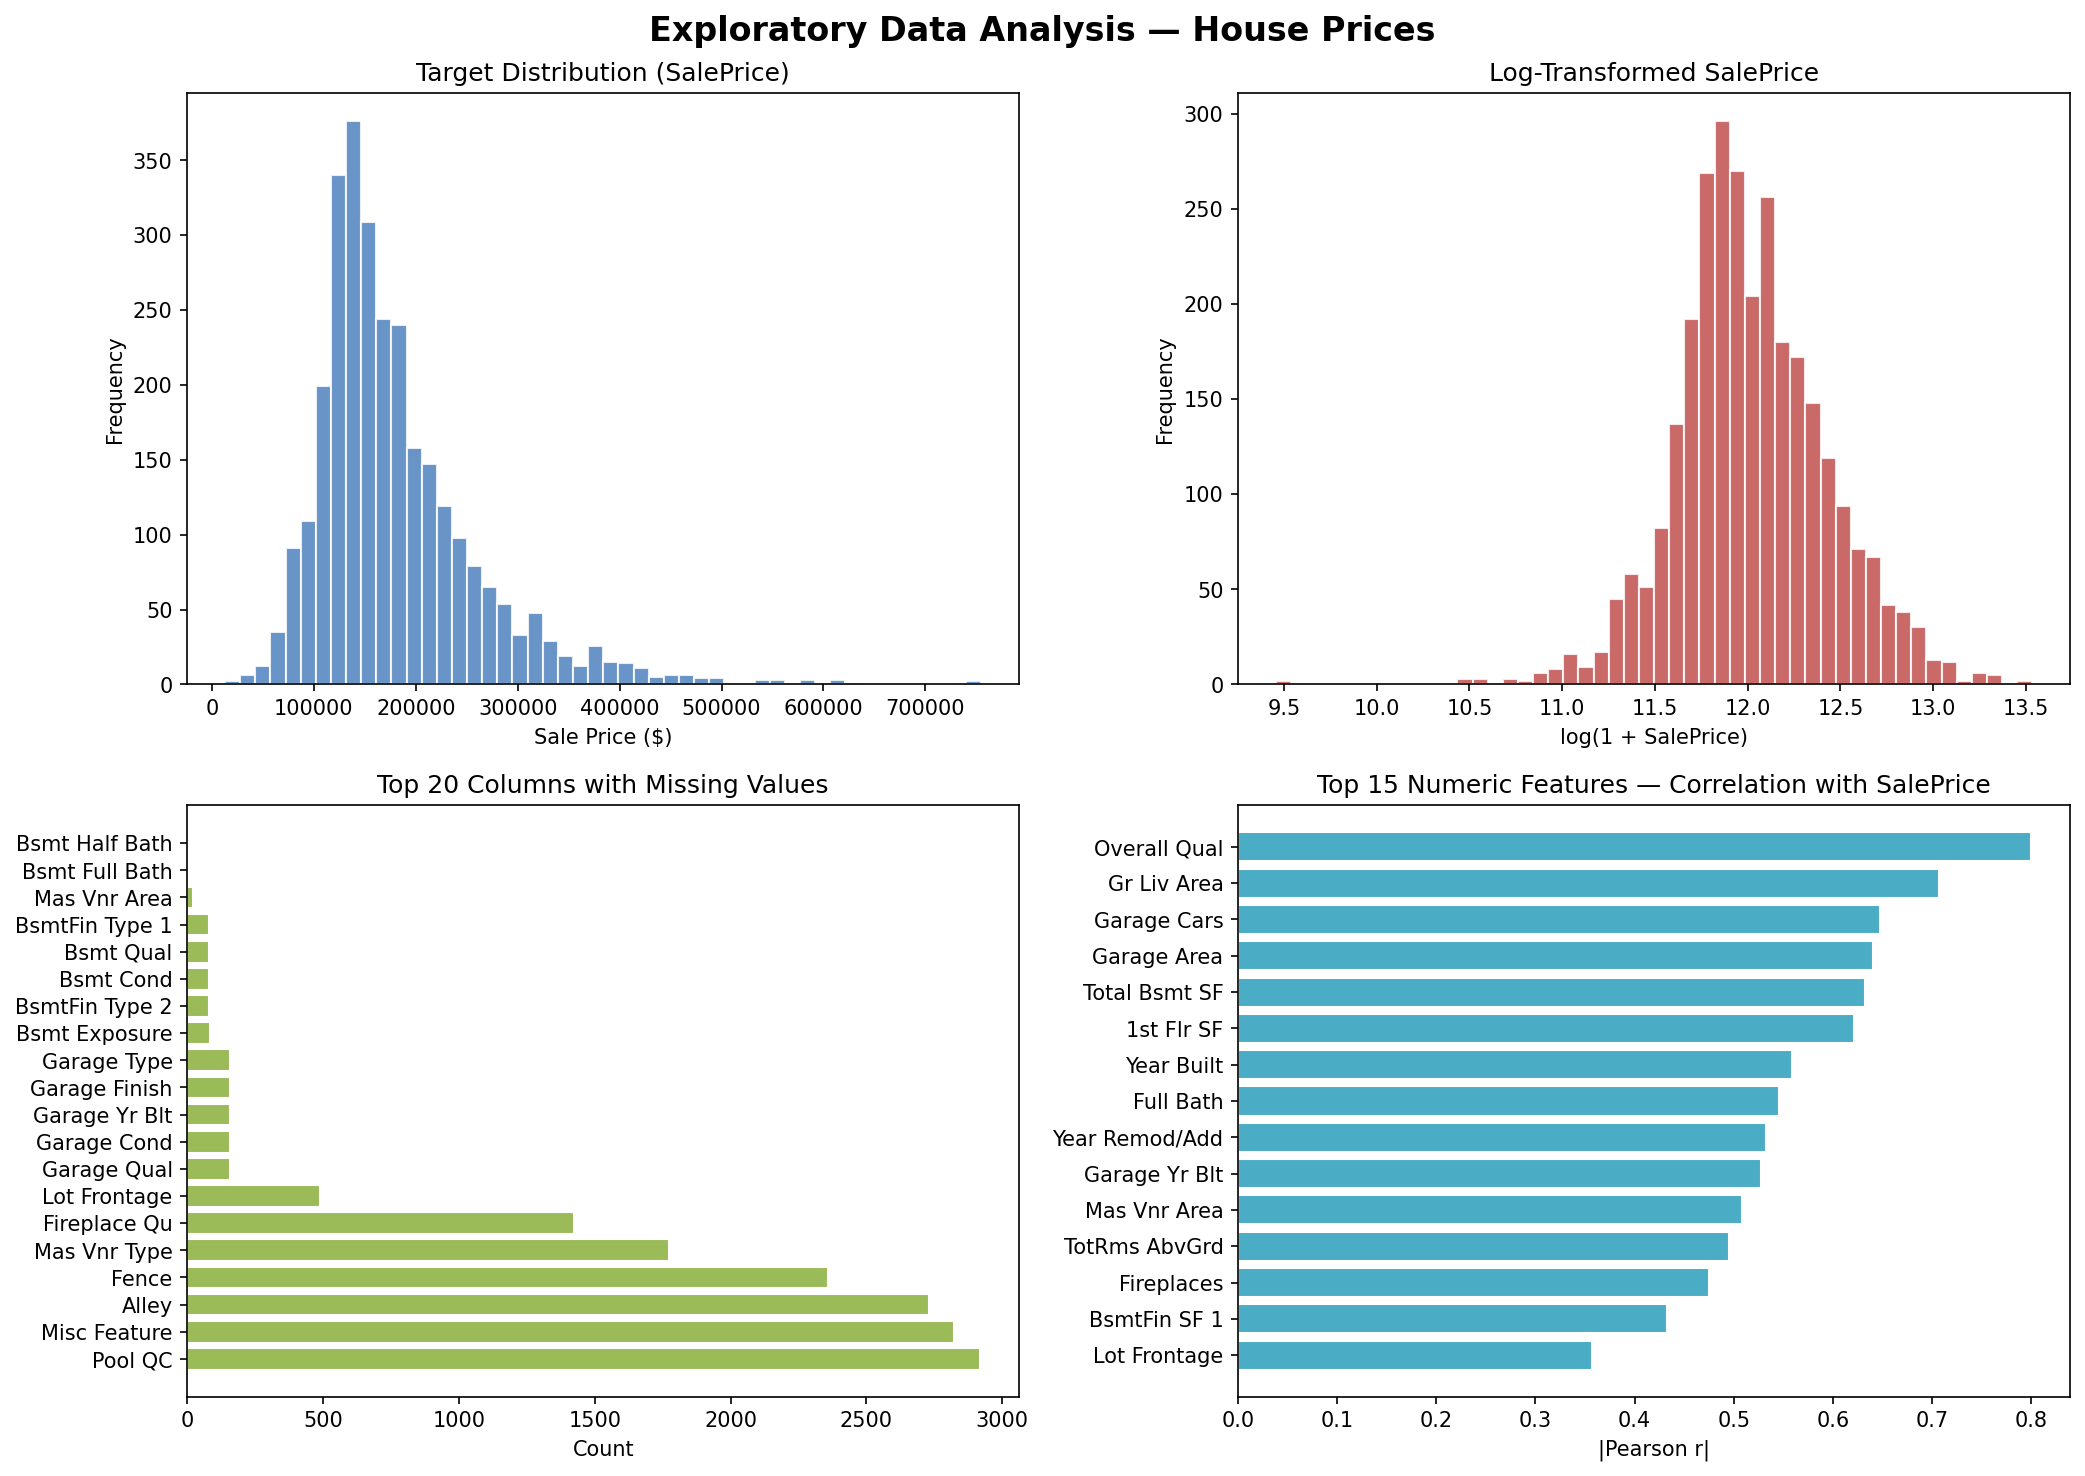
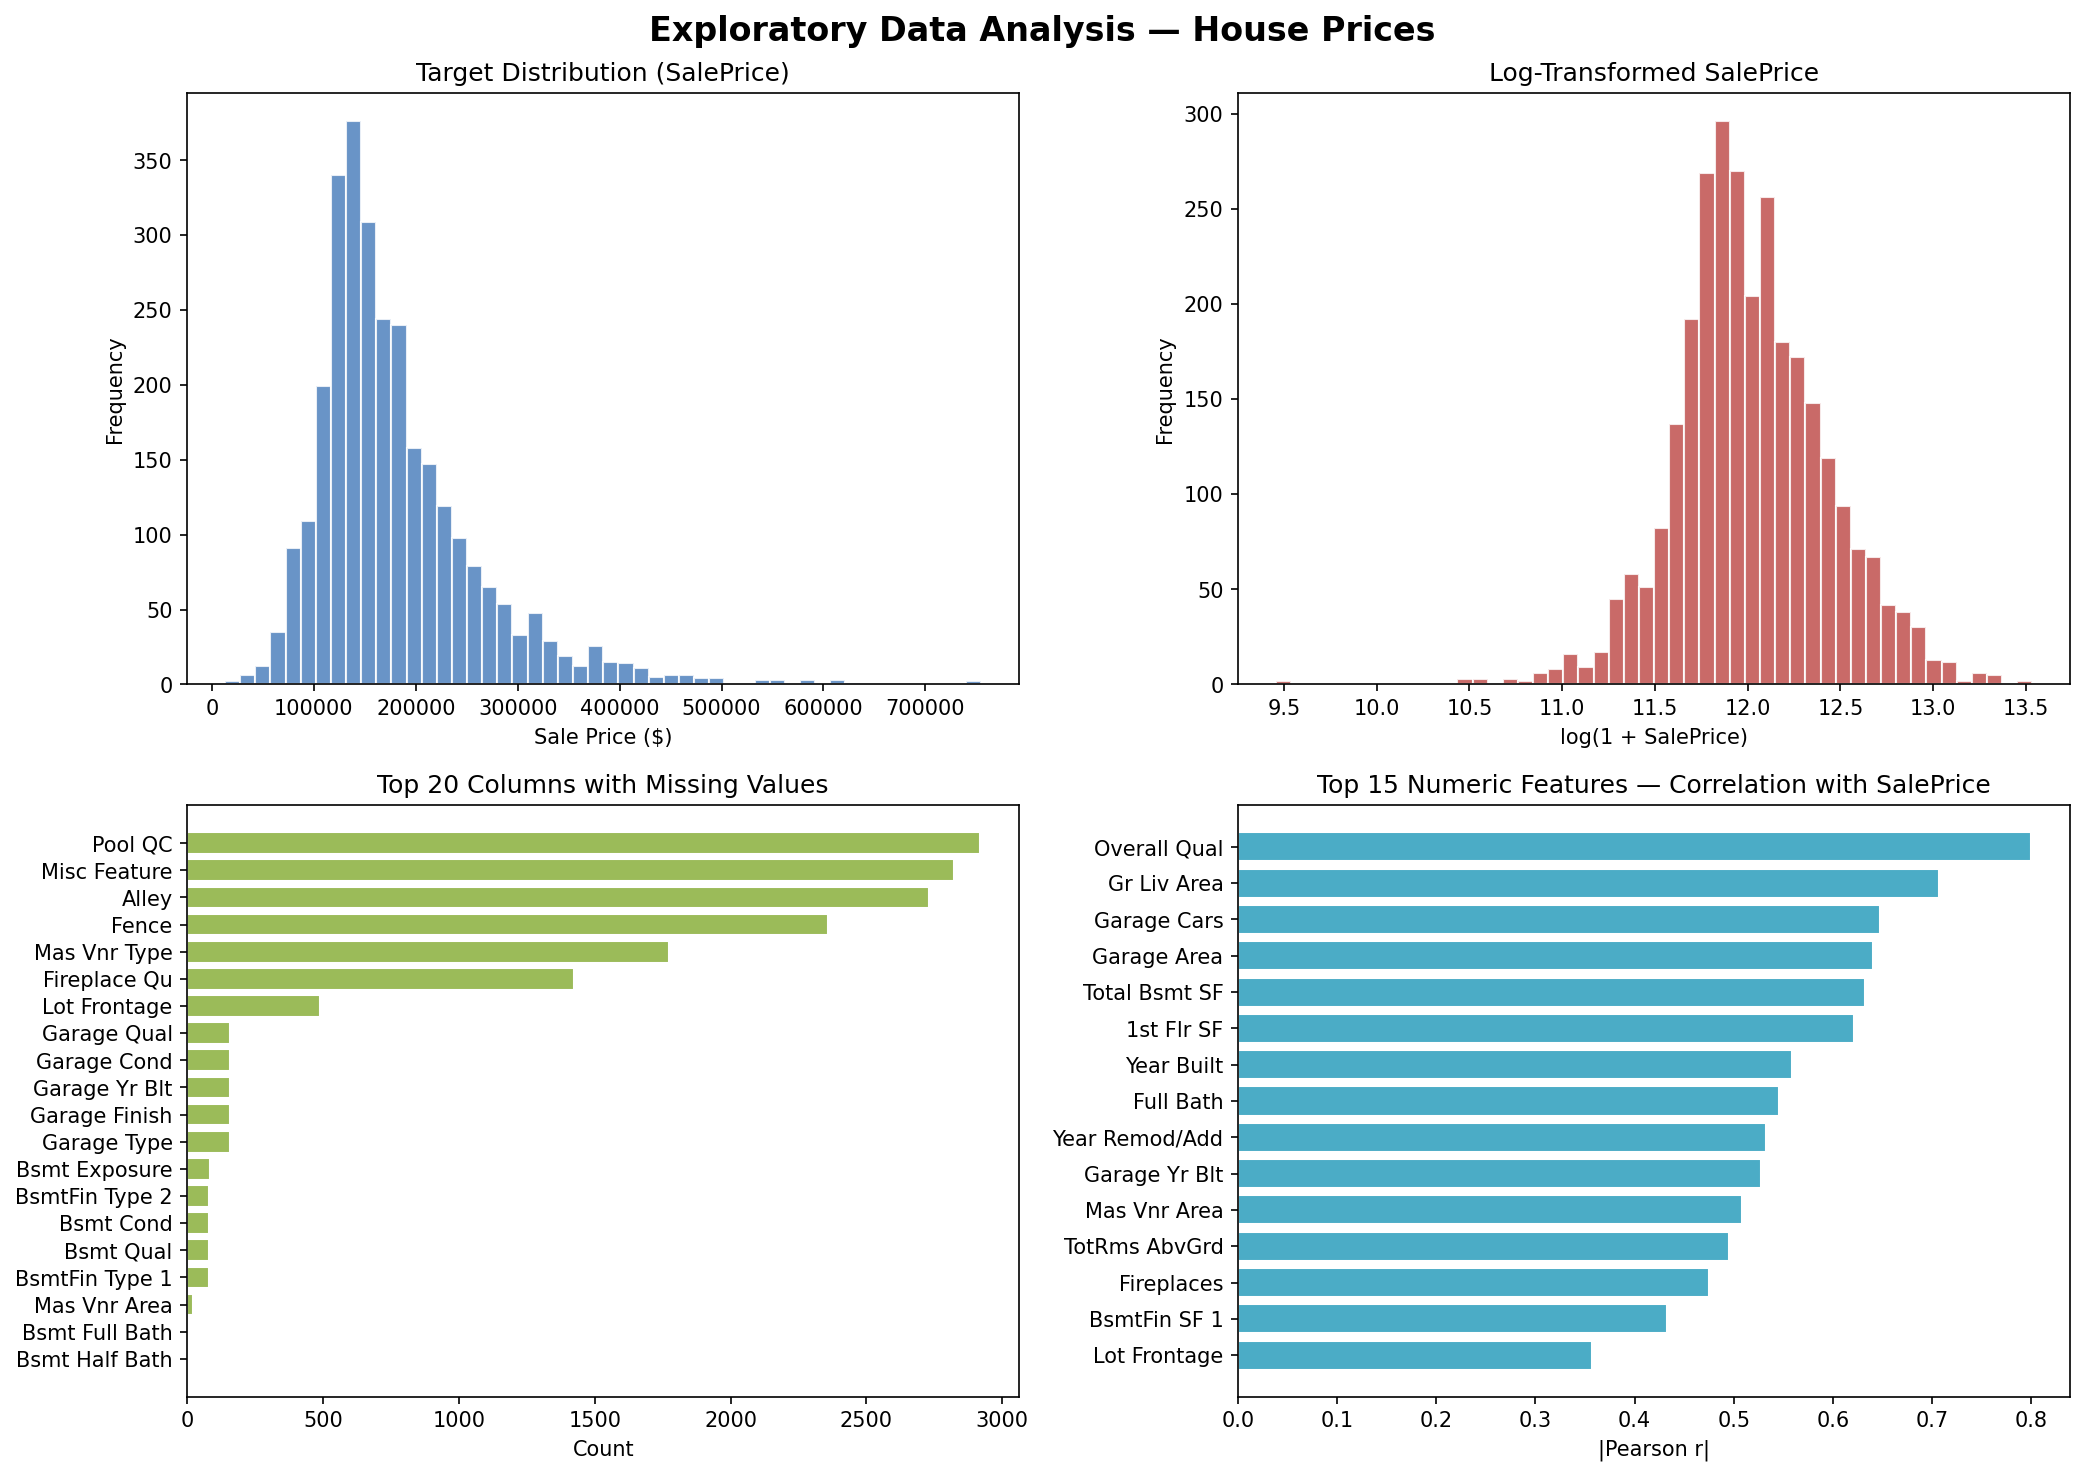
fixed missing values graph

Changed region(s): [[0.0, 0.561, 0.4676, 0.935]]

diff --git a/pipeline.py b/pipeline.py
@@ -1,8 +1,3 @@
-"""
-House Price Predictor - Full ML Pipeline
-Author: Sebastián Mayorga Castro
-"""
-
 import pandas as pd
 import numpy as np
 import matplotlib.pyplot as plt
@@ -28,7 +23,7 @@ os.makedirs(OUTPUTS_DIR, exist_ok=True)
 os.makedirs(MODELS_DIR,  exist_ok=True)
 
 
-# ── Helper: get column regardless of spacing style ────────────────────────────
+# Helper function: get column regardless of spacing style 
 def col(df, *candidates):
     """Return the first candidate column name that exists in df, else None."""
     for c in candidates:
@@ -36,23 +31,15 @@ def col(df, *candidates):
             return c
     return None
 
-
-# ══════════════════════════════════════════════════════════════════════════════
 # 1. DATA LOADING
-# ══════════════════════════════════════════════════════════════════════════════
-
 def load_data(filepath: str) -> pd.DataFrame:
     df = pd.read_csv(filepath)
-    print(f"✅ Dataset loaded: {df.shape[0]} rows × {df.shape[1]} columns")
+    print(f" Dataset loaded: {df.shape[0]} rows × {df.shape[1]} columns")
     return df
 
-
-# ══════════════════════════════════════════════════════════════════════════════
 # 2. EDA
-# ══════════════════════════════════════════════════════════════════════════════
-
 def run_eda(df: pd.DataFrame, target_col: str = "SalePrice") -> None:
-    print("\n📊  Running EDA …")
+    print("\n Running EDA …")
     fig, axes = plt.subplots(2, 2, figsize=(14, 10))
     fig.suptitle("Exploratory Data Analysis — House Prices", fontsize=16, fontweight="bold")
 
@@ -69,11 +56,11 @@ def run_eda(df: pd.DataFrame, target_col: str = "SalePrice") -> None:
     missing = df.isnull().sum()
     missing = missing[missing > 0].sort_values(ascending=False).head(20)
     if not missing.empty:
-        axes[1, 0].barh(missing.index, missing.values, color="#9BBB59", edgecolor="white")
+        axes[1, 0].barh(missing.index[::-1], missing.values[::-1], color="#9BBB59", edgecolor="white")
         axes[1, 0].set_title("Top 20 Columns with Missing Values")
         axes[1, 0].set_xlabel("Count")
     else:
-        axes[1, 0].text(0.5, 0.5, "No missing values 🎉", ha="center", va="center", fontsize=14)
+        axes[1, 0].text(0.5, 0.5, "No missing values", ha="center", va="center", fontsize=14)
         axes[1, 0].set_title("Missing Values")
 
     numeric_df = df.select_dtypes(include=[np.number])
@@ -85,7 +72,7 @@ def run_eda(df: pd.DataFrame, target_col: str = "SalePrice") -> None:
     plt.tight_layout()
     path = os.path.join(OUTPUTS_DIR, "eda_overview.png")
     plt.savefig(path, dpi=150, bbox_inches="tight")
-    plt.close()
+    plt.close() 
     print(f"   Saved → {path}")
 
 
